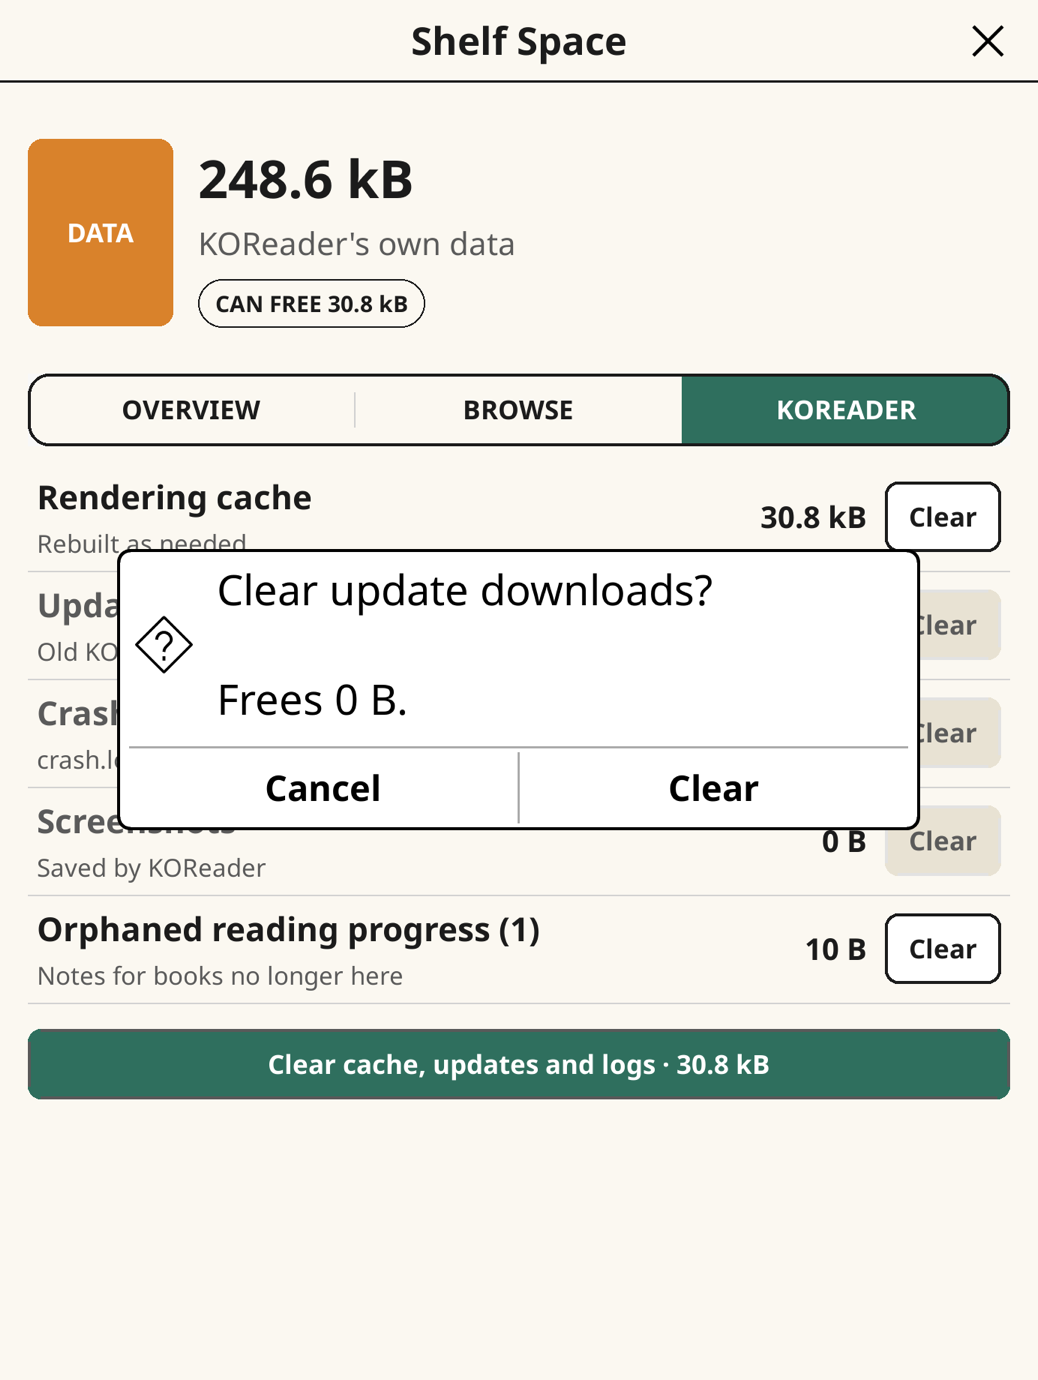
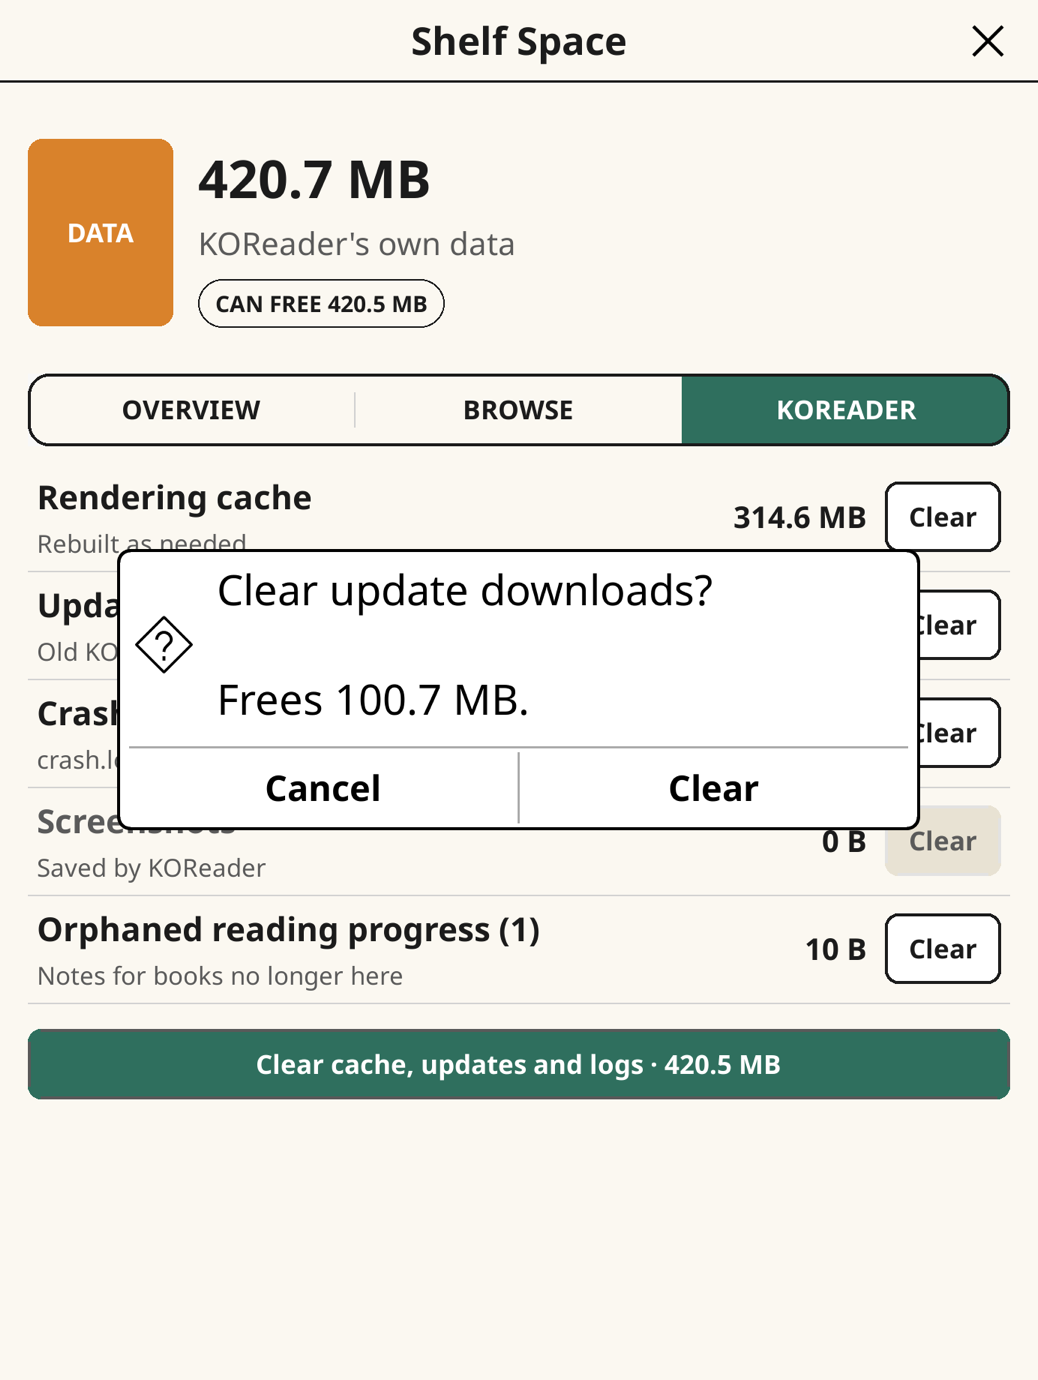
feat: tap a file to see what it is; Open returns to where you were (#10)
Tapping a file in Browse opens a Details sheet: name, type, size, folder, when it changed, and what KOReader knows (title, author, progress). Open starts the book and, when it is closed, Shelf Space comes back as it was; from inside a book the open one says Continue reading. Fixes dialogs never opening inside a book (a name clash with the reader's own dialog field). README screenshots retaken.

diff --git a/README.md b/README.md
@@ -11,9 +11,13 @@ desktop emulator and on a Kobo Libra Colour.
 | --- | --- | --- |
 | <img src="assets/overview.png" width="260"> | <img src="assets/browse.png" width="260"> | <img src="assets/search.png" width="260"> |
 
-| Delete | KOReader data | Clear |
+| File details | Delete | KOReader data |
 | --- | --- | --- |
-| <img src="assets/delete.png" width="260"> | <img src="assets/koreader.png" width="260"> | <img src="assets/clear.png" width="260"> |
+| <img src="assets/details.png" width="260"> | <img src="assets/delete.png" width="260"> | <img src="assets/koreader.png" width="260"> |
+
+| Clear |
+| --- |
+| <img src="assets/clear.png" width="260"> |
 
 Taken in the KOReader desktop emulator at Kobo Libra Colour proportions, so the
 totals are a Mac's. Colour shows on Kaleido screens such as the Libra Colour;
@@ -29,8 +33,10 @@ Open **Tools › Shelf Space**. Three tabs:
   why it is left alone.
 - **Browse**: your library, largest first, with a share bar per row. Sort by
   size, name or date, or search by name across the folder you are in and
-  everything under it. Tap a folder to open it; every row has its own **Delete** button, and you always
-  get a confirmation first, including how many books lose their reading
+  everything under it. Tap a folder to open it, or tap a file to see what it is
+  (type, size, where it is, when it changed, your reading progress), with Open
+  and Book info buttons. Every row has its own **Delete** button, and you
+  always get a confirmation first, including how many books lose their reading
   progress. Only books KOReader can open, and folders holding nothing else, can
   be deleted here. Anything else (system folders, other files) is shown with
   the reason it is locked, and so are KOReader itself and the book you are
